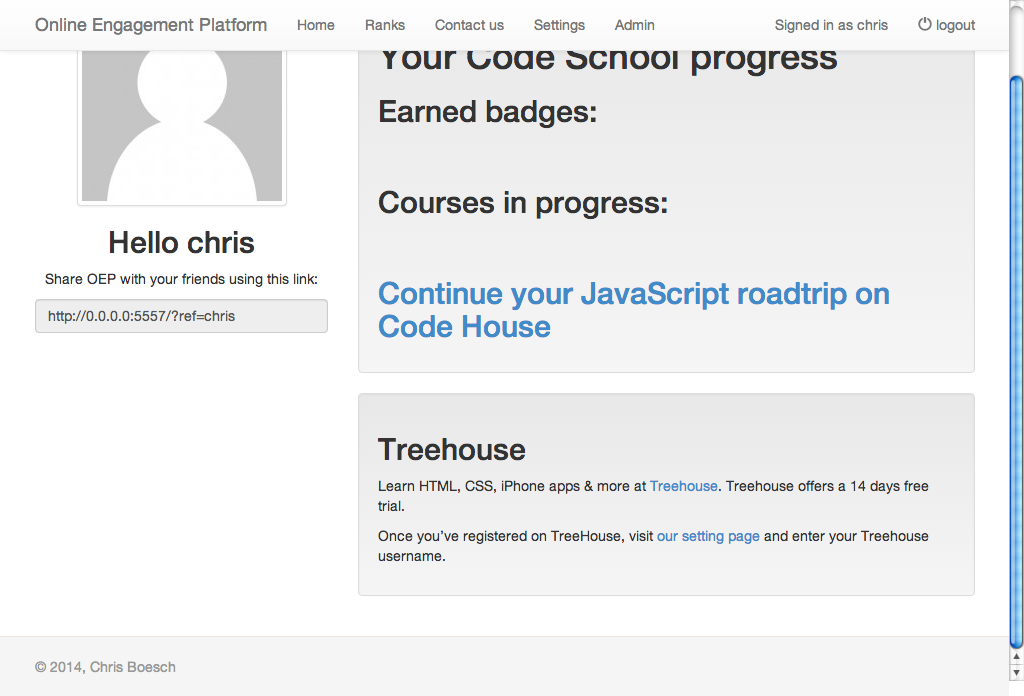
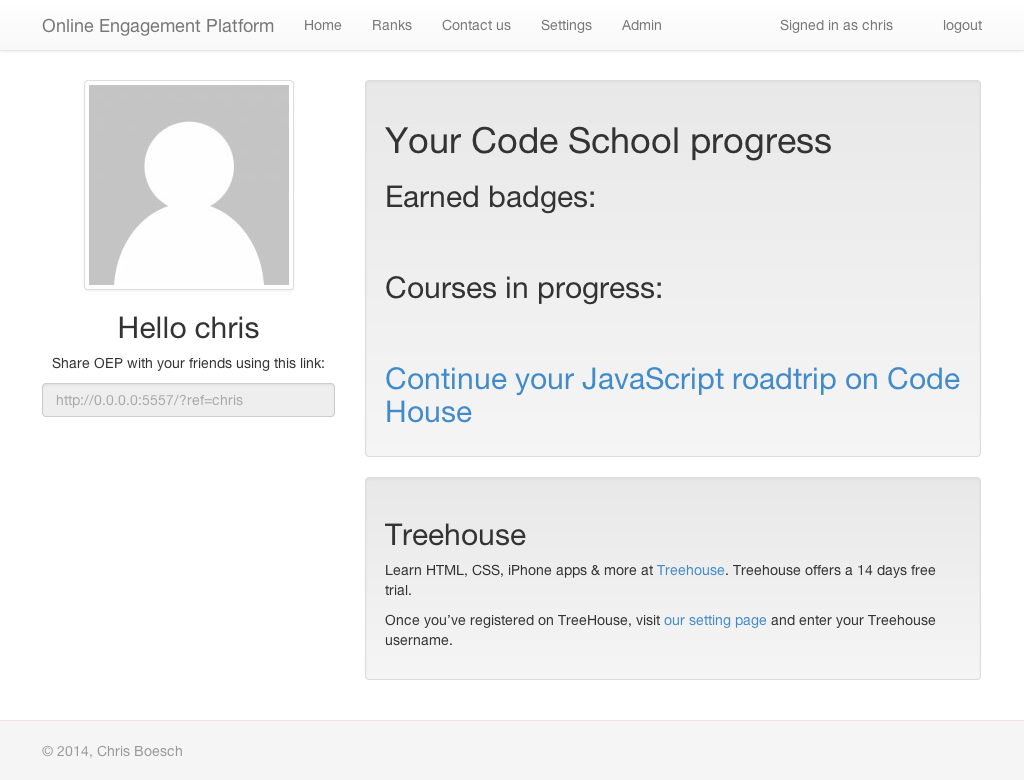
Add e2e test runner for phantomjs

diff --git a/Gruntfile.js b/Gruntfile.js
@@ -198,13 +198,23 @@ module.exports = function(grunt) {
 
     protractor: {
       options: {
-        configFile: 'config/e2e.conf.js',
-        keepAlive: true,
+        seleniumAddress: '0.0.0.0',
+        seleniumPort: 4444,
+        keepAlive: false,
         noColor: false,
       },
-      dev: {
+      chrome: {
         options: {
           // debug: true,
+          configFile: 'config/e2e.chrome.conf.js',
+          args: {
+            specs: ['e2e/*/*.e2e.specs.js']
+          }
+        }
+      },
+      phantomjs: {
+        options: {
+          configFile: 'config/e2e.phantomjs.conf.js',
           args: {
             specs: ['e2e/*/*.e2e.specs.js']
           }
@@ -223,6 +233,9 @@ module.exports = function(grunt) {
         }
       }
     },
+
+    'selenium_phantom_hub': {},
+    'selenium_stop': {},
 
     shell: {
       options: {
@@ -369,13 +382,21 @@ module.exports = function(grunt) {
     'usemin'
   ]);
 
-  grunt.registerTask('test', ['jshint', 'karma:unit']);
+  grunt.registerTask('test', ['test:unit', 'test:e2e']);
+  grunt.registerTask('test:unit', ['jshint', 'karma:unit']);
+  grunt.registerTask('test:e2e', [
+    'e2e:assets',
+    'connect:e2e',
+    'selenium_phantom_hub',
+    'protractor:phantomjs',
+    'selenium_stop'
+  ]);
 
-  grunt.registerTask('autotest', ['jshint', 'karma:autoUnit']);
+  grunt.registerTask('autotest:unit', ['jshint', 'karma:autoUnit']);
   grunt.registerTask('autotest:e2e', [
     'e2e:assets',
     'connect:e2e',
-    'protractor:dev',
+    'protractor:chrome',
     'watch:e2e'
   ]);
 

diff --git a/config/e2e.phantomjs.conf.js b/config/e2e.phantomjs.conf.js
@@ -1,0 +1,37 @@
+var utils = require('./utils');
+
+
+// An example configuration file.
+exports.config = {
+  seleniumAddress: 'http://0.0.0.0:4444/wd/hub',
+
+  // Capabilities to be passed to the webdriver instance.
+  capabilities: {
+    'browserName': 'phantomjs',
+
+    'phantomjs.binary.path': './node_modules/phantomjs/bin/phantomjs',
+
+    /*
+     * Command line arugments to pass to phantomjs.
+     * Can be ommitted if no arguments need to be passed.
+     * Acceptable cli arugments: https://github.com/ariya/phantomjs/wiki/API-Reference#wiki-command-line-options
+     */
+    'phantomjs.cli.args': []
+  },
+
+  // Options to be passed to Jasmine-node.
+  jasmineNodeOpts: {
+    showColors: true,
+    defaultTimeoutInterval: 30000
+  },
+
+  onPrepare: utils.onPrepare({
+    resolutions: [{
+      width: 1024,
+      height: 768
+    }, {
+      width: 320,
+      height: 568
+    }]
+  })
+};

diff --git a/config/utils.js b/config/utils.js
@@ -1,0 +1,35 @@
+/* global browser */
+
+var fs = require('fs');
+
+exports.onPrepare = function(config) {
+  'use strict';
+
+  var tss = function(name, res) {
+    var path = './screenshots/' +
+      res.width + 'x' + res.height +
+      '-' + name + '.png';
+
+    return browser.driver.manage().window().setSize(res.width, res.height).then(function() {
+      return browser.takeScreenshot();
+    }).then(function(png) {
+      var stream = fs.createWriteStream(path);
+
+      stream.write(new Buffer(png, 'base64'));
+      stream.end();
+
+      return png;
+    });
+  };
+
+  global.takeScreenShot = function(name) {
+    return config.resolutions.reduce(function(promise, res) {
+      if (!promise.then) {
+        promise = tss(name, promise);
+      }
+      return promise.then(function() {
+        return tss(name, res);
+      });
+    });
+  };
+};

diff --git a/config/e2e.chrome.conf.js b/config/e2e.chrome.conf.js
@@ -1,0 +1,30 @@
+var utils = require('./utils');
+
+
+// An example configuration file.
+exports.config = {
+  // Do not start a Selenium Standalone sever - only run this using chrome.
+  chromeOnly: true,
+  chromeDriver: '../node_modules/protractor/selenium/chromedriver',
+
+  // Capabilities to be passed to the webdriver instance.
+  capabilities: {
+    'browserName': 'chrome'
+  },
+
+  // Options to be passed to Jasmine-node.
+  jasmineNodeOpts: {
+    showColors: true,
+    defaultTimeoutInterval: 30000
+  },
+
+  onPrepare: utils.onPrepare({
+    resolutions: [{
+      width: 1024,
+      height: 768
+    }, {
+      width: 320,
+      height: 568
+    }]
+  })
+};

diff --git a/README.md b/README.md
@@ -26,12 +26,22 @@ To run the development server on port 8.8.8.8:
 grunt dev
 ```
 
-To run the unit tests automaticaly:
+To run tests:
 ```
-grunt autotest
+grunt test
 ```
 
-To run the e2e tests and update the screenshots:
+To run the unit tests continuously:
+```
+grunt autotest:unit
+```
+
+to run e2e test only and update screenshots (in phantomjs):
+```
+grunt test:e2e
+```
+
+To run the e2e tests continuously in chrome (cannot be run on Nitrous):
 ```
 grunt autotest:e2e
 ```
